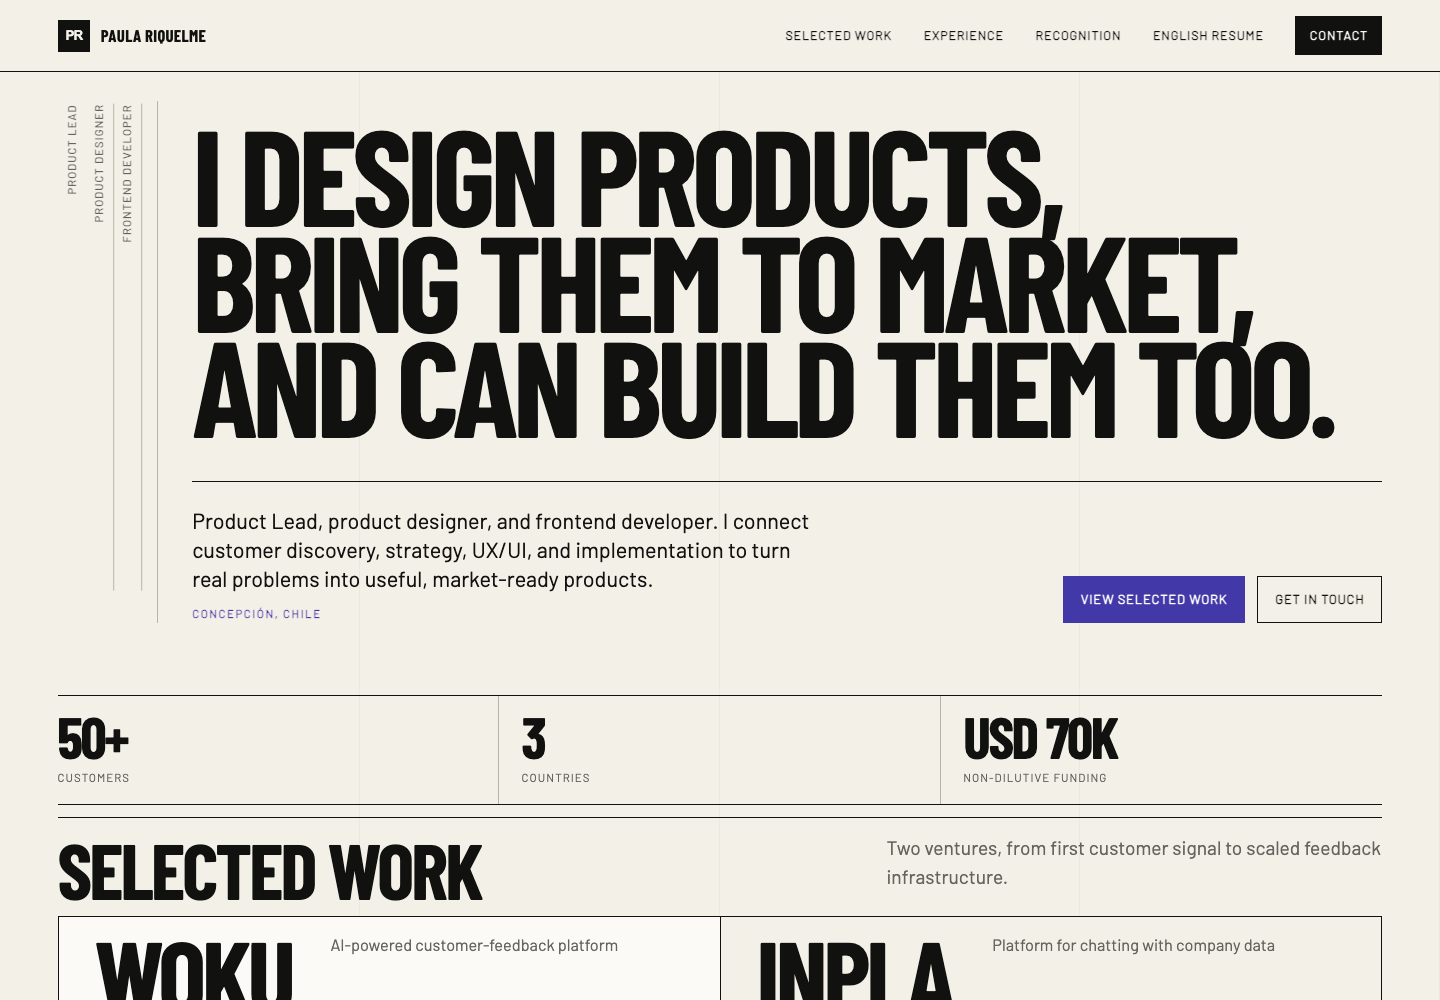
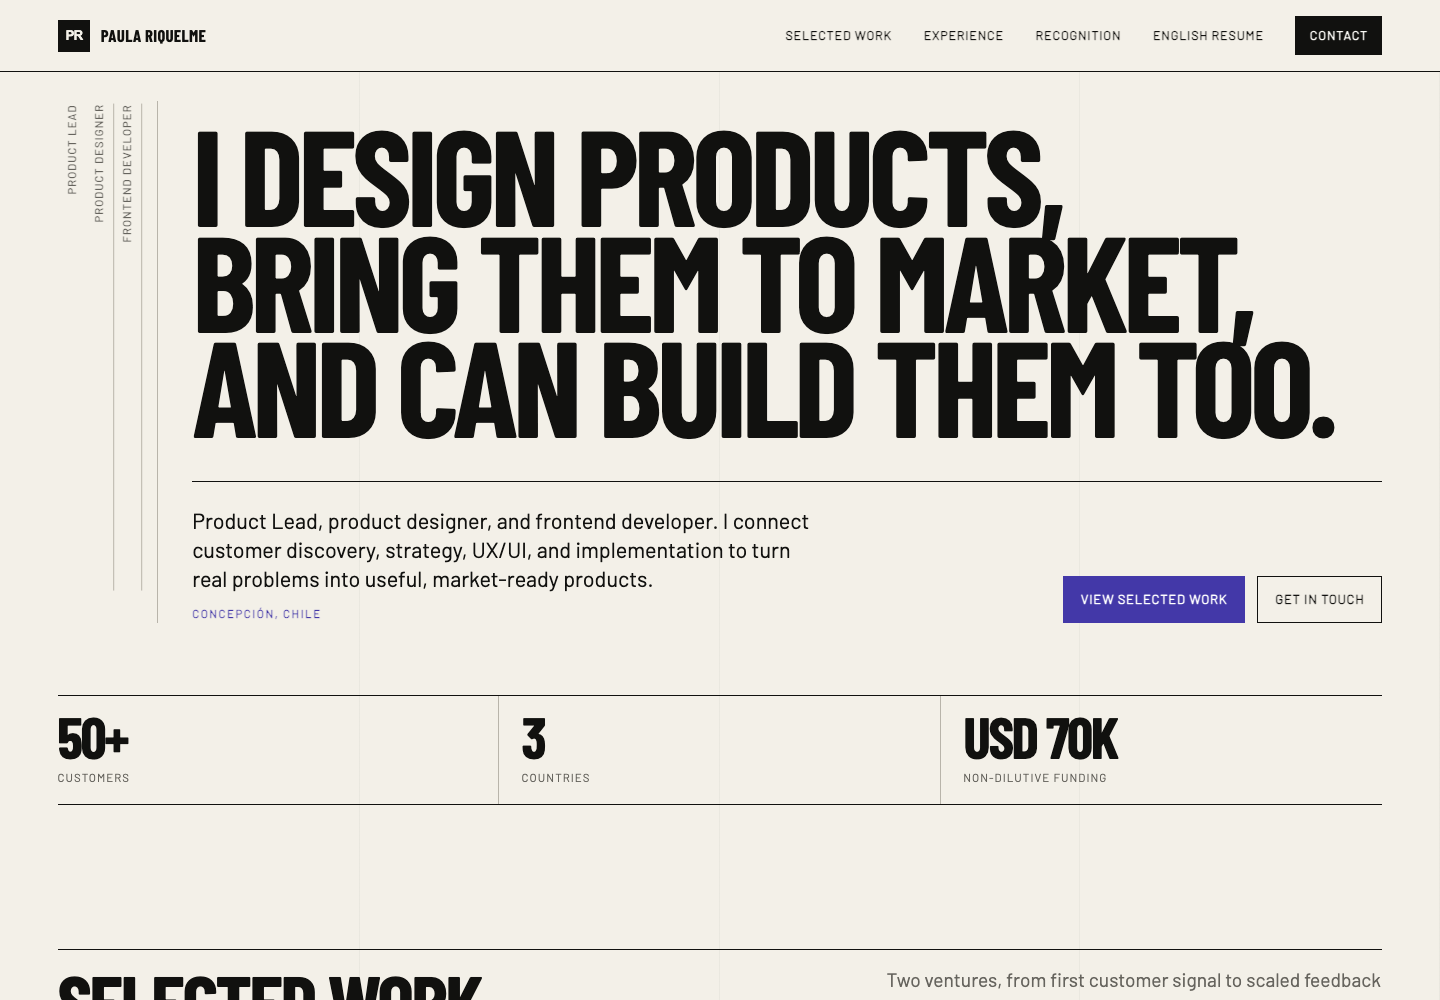
💄 Restore selected work spacing rhythm

diff --git a/tests/e2e/portfolio.spec.ts b/tests/e2e/portfolio.spec.ts
@@ -186,6 +186,23 @@ test("keeps desktop metrics on one line and actions square", async ({
   );
 });
 
+test("keeps selected work on the shared vertical rhythm", async ({ page }) => {
+  const spacing = await page.locator(".selected-work").evaluate((section) => {
+    const heading = section.querySelector<HTMLElement>(".section-heading")!;
+    const card = section.querySelector<HTMLElement>(".project-card")!;
+
+    return {
+      sectionPaddingTop: Number.parseFloat(getComputedStyle(section).paddingTop),
+      headingMarginBottom: Number.parseFloat(getComputedStyle(heading).marginBottom),
+      cardPaddingTop: Number.parseFloat(getComputedStyle(card).paddingTop),
+    };
+  });
+
+  expect(spacing.sectionPaddingTop).toBeGreaterThanOrEqual(72);
+  expect(spacing.headingMarginBottom).toBeGreaterThanOrEqual(40);
+  expect(spacing.cardPaddingTop).toBeGreaterThanOrEqual(16);
+});
+
 test("fills the recognition card height with its evidence image", async ({ page }) => {
   test.skip((await page.viewportSize())!.width < 1088, "Desktop layout only");
 

diff --git a/src/app/globals.css b/src/app/globals.css
@@ -199,9 +199,6 @@ ul { padding: 0; }
 .hero-evidence dt { margin-top: 0.55rem; color: var(--muted); font-size: 0.72rem; letter-spacing: 0.09em; text-transform: uppercase; }
 
 .section { width: min(100%, var(--max-width)); margin: 0 auto; padding: var(--section-space) var(--page-gutter); }
-.selected-work { padding-top: 0.75rem; }
-.selected-work .section-heading { margin-bottom: 0.75rem; }
-.selected-work .project-card { padding-top: 1rem; }
 .section-heading { margin-bottom: clamp(2.5rem, 5vw, 5rem); padding-top: 1rem; border-top: 1px solid var(--ink); }
 .section-heading-row { display: grid; grid-template-columns: minmax(13rem, 1fr) minmax(18rem, 1fr); gap: 2rem; }
 .section-heading h2, .education-block > h2 { font-family: var(--font-display); font-size: clamp(2.6rem, 5.4vw, 5.5rem); font-weight: 700; letter-spacing: -0.035em; line-height: 0.9; text-transform: uppercase; }
